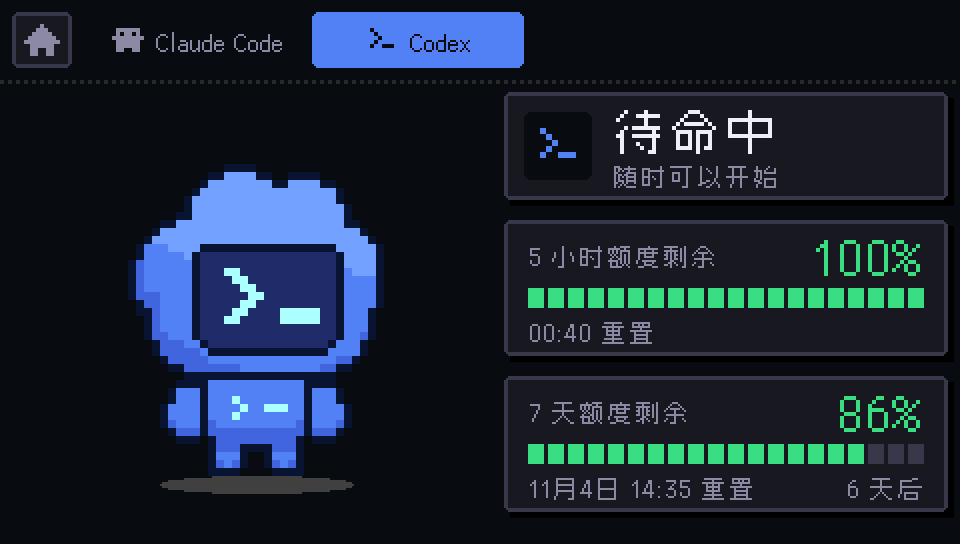
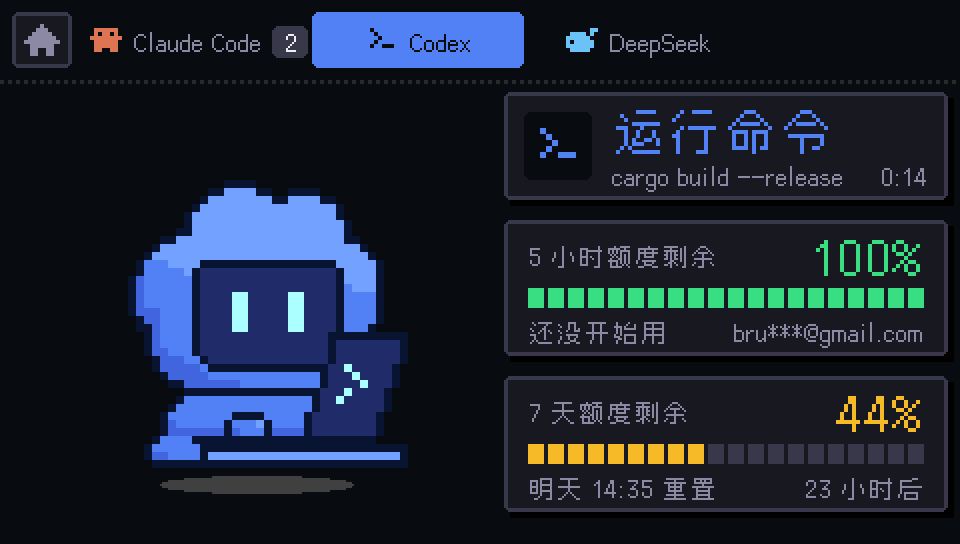
README、使用手册：按新界面更新说明和配图
- 截图换成 10 张：新增 DeepSeek、排行、待机时钟、设置 · 连接，去掉已不存在的 Agent 页和设置 · 电脑
- 重录首页动图 hero.gif
- 功能说明、截图说明、配对步骤（设置 → 连接）同步，英文版一起改
- 使用手册：页面概览、状态栏、设置页五个分区、Buddy 页状态卡、magpie 四页、待机时钟、通知、电池、雷达入口、调试参数
- 无线通讯方案里的菜单路径改成 设置 → 连接

diff --git a/README.en.md b/README.en.md
@@ -18,11 +18,12 @@
 
 ## Features
 
-- **See what your agents are doing at a glance**: Claude's Clawd and Codex's cloud robot sit at a pixel-art desk, and DeepSeek's little whale lives in a fish tank on the wall. Each has its own animation for thinking, writing code, running commands, waiting for your approval, done and error. The screen border flashes while an agent waits for you.
+- **See what your agents are doing at a glance**: Claude's Clawd and Codex's cloud robot sit at a pixel-art desk, and DeepSeek's little whale lives in a fish tank on the wall. Each has its own animation for thinking, writing code, running commands, waiting for your approval, done and error. Three cards along the bottom of the home screen, one per agent, show status, elapsed time and quota; the monitor on the desk shows the command being run or the file being edited.
+- **The details, too**: the Buddy page shows the running command, what an agent is waiting for and which project it is in; when idle, how long ago the last task finished and how long it took. A notification slides in on any page when an agent needs you, finishes or fails.
 - **Quota at a glance**: 5-hour and 7-day remaining quota for Claude Code and Codex, with reset times; DeepSeek is pay-as-you-go, so it shows your balance, its trend and today's usage (from magpie).
-- **[magpie](https://github.com/yetone/magpie) panel**: the four pages of magpie's menu bar panel (Agents / Quotas / Usage / Routes). The magpie flaps its wings when a new request comes in, and routed requests fly across the Routes page.
+- **[magpie](https://github.com/yetone/magpie) panel**: four pages: Ranking / Quotas / Usage / Routes. Ranking shows how much each agent spent; the magpie flaps its wings when a new request comes in, and routed requests fly across the Routes page.
 - **Sound**: 8-bit notification sounds and optional spoken alerts ("Claude needs your approval: git push", "Task done in 3 minutes"). With a microphone, Clawd sways to music and goes quiet while you talk.
-- **Knows when you're there**: with a mmWave radar, it switches to a standby clock when you leave your seat, greets you when you come back, and tells you when someone stops behind you.
+- **Knows when you're there**: with a mmWave radar, it switches to a standby clock when you leave your seat (quota and today's finished tasks for all three agents; the column of an agent waiting for you flashes), greets you when you come back, and tells you when someone stops behind you.
 - **Works without the cable**: once the board is on Wi-Fi, unplugging USB switches the link to Wi-Fi (mutual authentication + AES-256-GCM). Several computers can be paired, using a 6-digit code shown on screen.
 - **One-command setup** on macOS and Windows: installs, flashes the prebuilt firmware and registers hooks. No Arduino install needed.
 
@@ -32,10 +33,11 @@ Captured directly from the board (480×272, scaled 2×).
 
 | | |
 |:---:|:---:|
-| <img src="docs/images/screen-home.png" width="420"><br>Desk scene: the monitor shows Claude's current state; quota, status and today's magpie usage along the bottom | <img src="docs/images/screen-claude.png" width="420"><br>Claude Code running a command, with 5-hour / 7-day quota |
-| <img src="docs/images/screen-codex.png" width="420"><br>Codex, idle | <img src="docs/images/screen-magpie-agent.png" width="420"><br>magpie · Agents: model and reasoning effort per agent |
-| <img src="docs/images/screen-magpie-usage.png" width="420"><br>magpie · Usage: tokens, requests, cost, cache hit rate | <img src="docs/images/screen-radar.png" width="420"><br>Radar: you at your seat, your blind spot, anyone approaching |
-| <img src="docs/images/screen-settings-pc.png" width="420"><br>Settings · Computers: paired computers and which one is in control | <img src="docs/images/screen-settings-sound.png" width="420"><br>Settings · Sound: volume, sound effects, spoken alerts |
+| <img src="docs/images/screen-home.png" width="420"><br>Desk scene: the monitor splits when Claude and Codex are both working; one card per agent along the bottom | <img src="docs/images/screen-claude.png" width="420"><br>Claude Code running npm test in the agent-buddy project, with 5-hour / 7-day quota |
+| <img src="docs/images/screen-codex.png" width="420"><br>Codex compiling on its laptop; the account is masked by default | <img src="docs/images/screen-deepseek.png" width="420"><br>DeepSeek waiting for your answer, with balance trend and today's usage |
+| <img src="docs/images/screen-magpie-rank.png" width="420"><br>magpie · Ranking: what each agent spent in the last 7 days, and failures | <img src="docs/images/screen-magpie-usage.png" width="420"><br>magpie · Usage: tokens (excluding cache), requests, cost, cache hit rate |
+| <img src="docs/images/screen-radar.png" width="420"><br>Radar: you at your seat, your blind spot, anyone approaching | <img src="docs/images/screen-standby.png" width="420"><br>Standby clock when you leave your seat: quota and today's finished tasks for each agent |
+| <img src="docs/images/screen-settings-conn.png" width="420"><br>Settings · Connection: paired computers and Wi-Fi | <img src="docs/images/screen-settings-sound.png" width="420"><br>Settings · Sound: volume, sound effects, spoken alerts |
 
 ## Photos
 
@@ -100,9 +102,9 @@ Setup creates the Python environment, registers the Claude Code / Codex / DeepSe
 
 ### Unplug USB, use Wi-Fi
 
-Join a network under Settings → Wi-Fi on the board. Starting the bridge with USB plugged in pairs automatically; after that, unplugging the cable switches to Wi-Fi, and plugging it back in switches back to USB. To pair a computer that has no USB connection (a second computer, for example):
+Join a Wi-Fi network under Settings → 连接 (Connection) on the board. Starting the bridge (shown on screen as 桥接程序) with USB plugged in pairs automatically; after that, unplugging the cable switches to Wi-Fi, and plugging it back in switches back to USB. To pair a computer that has no USB connection (a second computer, for example):
 
-1. On the board, open Settings → 电脑 (Computers) → 添加电脑 (Add computer).
+1. On the board, open Settings → 连接 (Connection) → 添加电脑 (Add computer).
 2. On the computer, run:
    ```bash
    bridge/buddy pair --wifi

diff --git a/README.md b/README.md
@@ -16,11 +16,12 @@
 
 ## 它能做什么
 
-- **一眼看到 Agent 在干嘛**：Claude 的 Clawd 和 Codex 的云朵小机器人在像素书桌前，DeepSeek 的小鲸鱼住在墙上的鱼缸里。它们在思考、写代码、运行命令、等你确认、完成或出错时，各有一套动画，等你确认时屏幕边框会闪。
+- **一眼看到 Agent 在干嘛**：Claude 的 Clawd 和 Codex 的云朵小机器人在像素书桌前，DeepSeek 的小鲸鱼住在墙上的鱼缸里。它们在思考、写代码、运行命令、等你确认、完成或出错时，各有一套动画。首页底部三张卡固定对应三个 Agent，显示状态、用时和额度；桌上的显示器显示正在跑的命令或正在改的文件。
+- **知道它具体在做什么**：Buddy 页显示正在跑的命令、等你确认的内容和所在项目；空闲时显示上次完成是多久前、用了多久。等你确认、完成、出错时，任何页面都会滑出一条通知。
 - **额度随时看**：Claude Code 和 Codex 的 5 小时 / 7 天剩余额度、重置时间；DeepSeek 按量计费，显示账户余额、余额走势和今天的用量（来自 magpie）。
-- **[magpie](https://github.com/yetone/magpie) 面板**：还原 magpie 菜单栏面板的 Agent / 额度 / 用量 / 路由四页，新请求进来时喜鹊会扇翅膀、路由页播放光点飞行。
+- **[magpie](https://github.com/yetone/magpie) 面板**：排行 / 额度 / 用量 / 路由四页。排行页按花费列出各 Agent 用了多少；新请求进来时喜鹊会扇翅膀，路由页播放光点飞行。
 - **声音提醒**：8-bit 提示音，可选中文语音播报（「Claude 需要你确认：git push」「任务完成，用时 3 分钟」）。接上麦克风后，Clawd 会跟着音乐摇摆、听到你说话就安静下来。
-- **知道你在不在**：接上毫米波雷达后，离开座位自动切到待机时钟，回来时打招呼，身后有人驻足时提醒你。
+- **知道你在不在**：接上毫米波雷达后，离开座位自动切到待机时钟（三个 Agent 的额度和今天完成数，谁在等你确认那一列就闪），回来时打招呼，身后有人驻足时提醒你。
 - **不插线也能用**：板子连上 Wi-Fi 后，拔掉 USB 自动改走 Wi-Fi（双向认证 + AES-256-GCM 加密）。支持多台电脑，用屏幕验证码配对。
 - **装好就能用**：macOS / Windows 一条命令完成安装、烧录和 hooks 配置，不用装 Arduino。
 
@@ -30,10 +31,11 @@
 
 | | |
 |:---:|:---:|
-| <img src="docs/images/screen-home.png" width="420"><br>桌面首页：显示器上是 Claude 的当前状态，底部是额度、状态和 magpie 今日用量 | <img src="docs/images/screen-claude.png" width="420"><br>Claude Code：正在运行命令，右边是 5 小时 / 7 天额度 |
-| <img src="docs/images/screen-codex.png" width="420"><br>Codex：待命中的云朵小机器人 | <img src="docs/images/screen-magpie-agent.png" width="420"><br>magpie · Agent：各 Agent 的模型和推理强度 |
-| <img src="docs/images/screen-magpie-usage.png" width="420"><br>magpie · 用量：Token、请求数、费用、缓存命中率 | <img src="docs/images/screen-radar.png" width="420"><br>雷达：你在座位上、身后的盲区、有没有人靠近 |
-| <img src="docs/images/screen-settings-pc.png" width="420"><br>设置 · 电脑：Wi-Fi 配对的电脑和控制权 | <img src="docs/images/screen-settings-sound.png" width="420"><br>设置 · 声音：音量、提示音、语音播报 |
+| <img src="docs/images/screen-home.png" width="420"><br>桌面首页：Claude 和 Codex 都在干活时显示器分屏；底部三张卡是三个 Agent 的状态、用时和额度 | <img src="docs/images/screen-claude.png" width="420"><br>Claude Code：在 agent-buddy 项目里跑 npm test，右边是 5 小时 / 7 天额度 |
+| <img src="docs/images/screen-codex.png" width="420"><br>Codex：抱着笔记本编译，账号默认打码 | <img src="docs/images/screen-deepseek.png" width="420"><br>DeepSeek：等你回答问题，右边是余额走势和今天的用量 |
+| <img src="docs/images/screen-magpie-rank.png" width="420"><br>magpie · 排行：这 7 天各 Agent 花了多少、失败几次 | <img src="docs/images/screen-magpie-usage.png" width="420"><br>magpie · 用量：Token（不含缓存）、请求数、费用、缓存命中率 |
+| <img src="docs/images/screen-radar.png" width="420"><br>雷达：你在座位上、身后的盲区、有没有人靠近 | <img src="docs/images/screen-standby.png" width="420"><br>待机时钟：离开座位时出现，三个 Agent 的额度和今天完成数 |
+| <img src="docs/images/screen-settings-conn.png" width="420"><br>设置 · 连接：配对的电脑和 Wi-Fi | <img src="docs/images/screen-settings-sound.png" width="420"><br>设置 · 声音：音量、提示音、语音播报 |
 
 ## 实拍
 
@@ -98,9 +100,9 @@ setup 会依次完成：建 Python 环境 → 注册 Claude Code / Codex / DeepS
 
 ### 拔掉 USB，改用 Wi-Fi
 
-在板子的 设置 → Wi-Fi 里连上网络。插着 USB 启动 bridge 时会自动配对，之后拔掉线就会自动改走 Wi-Fi，插回去再切回 USB。没有 USB 的电脑（比如第二台电脑）这样配对：
+在板子的 设置 → 连接 里连上 Wi-Fi。插着 USB 启动 bridge（屏幕上叫「桥接程序」）时会自动配对，之后拔掉线就会自动改走 Wi-Fi，插回去再切回 USB。没有 USB 的电脑（比如第二台电脑）这样配对：
 
-1. 在板子上打开 设置 → 电脑 → 添加电脑。
+1. 在板子上打开 设置 → 连接 → 添加电脑。
 2. 在电脑上运行：
    ```bash
    bridge/buddy pair --wifi

diff --git a/docs/无线通讯方案.md b/docs/无线通讯方案.md
@@ -247,7 +247,7 @@ bridge/buddy pair          # 插着 USB 时
 
 ### 5.3 屏幕验证码配对（没有 USB 的电脑，例如第二台 Windows）
 
-1. 在板子上进入 设置 → 电脑 → **添加电脑**，打开 2 分钟的配对窗口。窗口外的配对请求一律拒绝。
+1. 在板子上进入 设置 → 连接 → **添加电脑**，打开 2 分钟的配对窗口。窗口外的配对请求一律拒绝。
 2. 在电脑上运行 `buddy pair --wifi`，bridge 找到板子（§6），两边交换 X25519 公钥：`PAIR <host_name> <pubH>` ↔ `PAIRED <pubB>`。
 3. 两边各自算 `SAS = HMAC(共享密钥, "sas") mod 10⁶`。板子屏幕和终端同时显示 6 位验证码，板子上有「允许 / 拒绝」按钮。
 4. 用户看到两边数字一样，在板子上点「允许」，双方再用 `K = HKDF(共享密钥, "buddy pair")` 得到长期密钥。
@@ -256,7 +256,7 @@ bridge/buddy pair          # 插着 USB 时
 
 ### 5.4 管理
 
-- 板子 设置 → 电脑：列出已配对的电脑（名字、上次连接时间、当前是否连着），可以逐个移除。
+- 板子 设置 → 连接：列出已配对的电脑（名字、上次连接时间、当前是否连着），可以逐个移除。
 - `buddy unpair`：删除本机的 `device.json`；插着 USB 时同时让板子删掉这台电脑的记录。
 - 恢复出厂（`buddy flash --erase`）会清空 NVS，配对也一起清掉。
 
@@ -299,7 +299,7 @@ bridge/buddy pair          # 插着 USB 时
 - **第一版：同一时间只有一个「控制者」**，避免两台电脑的 `state` 互相覆盖，屏幕来回跳。
   - 优先级：USB 那台 > 设置页里选定的「首选电脑」 > 先连上的那台。
   - 不是控制者的连接：板子回 `{"t":"role","r":"standby"}`，bridge 收到后只发心跳。控制者断开后，板子发 `role: active` 给下一台。
-  - 设置 → 电脑 里可以手动指定控制者。
+  - 设置 → 连接 里可以手动指定控制者。
 - **以后可以扩展：按来源合并**。板子按 `host_id` 分别保存 Claude / Codex 的状态，按 bridge 里 `PRIORITY` 的同一套规则挑出最高的显示。按键、离开 / 回来事件按控制者取。这需要把 `aggregate()` 的一部分逻辑搬进固件，第一版不做。
 
 ---
@@ -419,7 +419,7 @@ bridge/buddy pair          # 插着 USB 时
 | `buddy status` | 已做 | 显示「连接：USB（Wi-Fi 备用）」「连接：Wi-Fi」或没连上 |
 | 录屏 | 只走 USB | Wi-Fi 下请求录屏会提示插 USB；超过 16000 字节的行在 Wi-Fi 下丢弃 |
 | 电脑 → 板子（Windows） | 已做（第二期） | 板子同时监听 47824、注册 `agent-buddy-<id>.local` 和 `_agentbuddy._tcp`、回 UDP 探测（`BUDDY? <id\|*>` → `BUDDY! <id> <port> <配对窗口 1/0>`）。bridge 的 dial 模式依次试上次的 IP、`.local`、UDP 广播；没做 §6 的子网扫描兜底。被板子拒绝后隔 30 秒再试 |
-| 屏幕验证码配对 | 已做（第二期） | 按 §5.3，细节：电脑发 `PAIR <host_id> <公钥> <port> <名字 base64> <地址\|->`，板子回 `PAIRKEY <公钥>`；验证码 = HMAC(共享密钥, `sas\|board_id\|nB\|PAIR 整行\|板子公钥`) 前 4 字节 mod 10⁶，所以名字和地址也被验证码覆盖；K = HKDF(共享密钥, salt = 电脑公钥 \| 板子公钥, "buddy pair")。有请求时板子自动跳到「电脑」页 |
+| 屏幕验证码配对 | 已做（第二期） | 按 §5.3，细节：电脑发 `PAIR <host_id> <公钥> <port> <名字 base64> <地址\|->`，板子回 `PAIRKEY <公钥>`；验证码 = HMAC(共享密钥, `sas\|board_id\|nB\|PAIR 整行\|板子公钥`) 前 4 字节 mod 10⁶，所以名字和地址也被验证码覆盖；K = HKDF(共享密钥, salt = 电脑公钥 \| 板子公钥, "buddy pair")。有请求时板子自动跳到「连接」页（原「电脑」分区，已和 Wi-Fi 合并） |
 | 多台电脑 | 已做（第二期） | 板子最多 4 台（NVS `pair` 里 h0~h3 等，v3.9 的单台记录开机自动迁移），每条连接一个任务，最多同时 3 条。控制者按 §7：USB > 首选 > 先连上的；角色用 `{"t":"role"}` 通知，待命连接的行双向都不处理。bridge 侧一台电脑仍只配一块板子（`device.json`） |
 | OTA | 不做 | 烧录固件仍用 `buddy flash` 走 USB |
 
